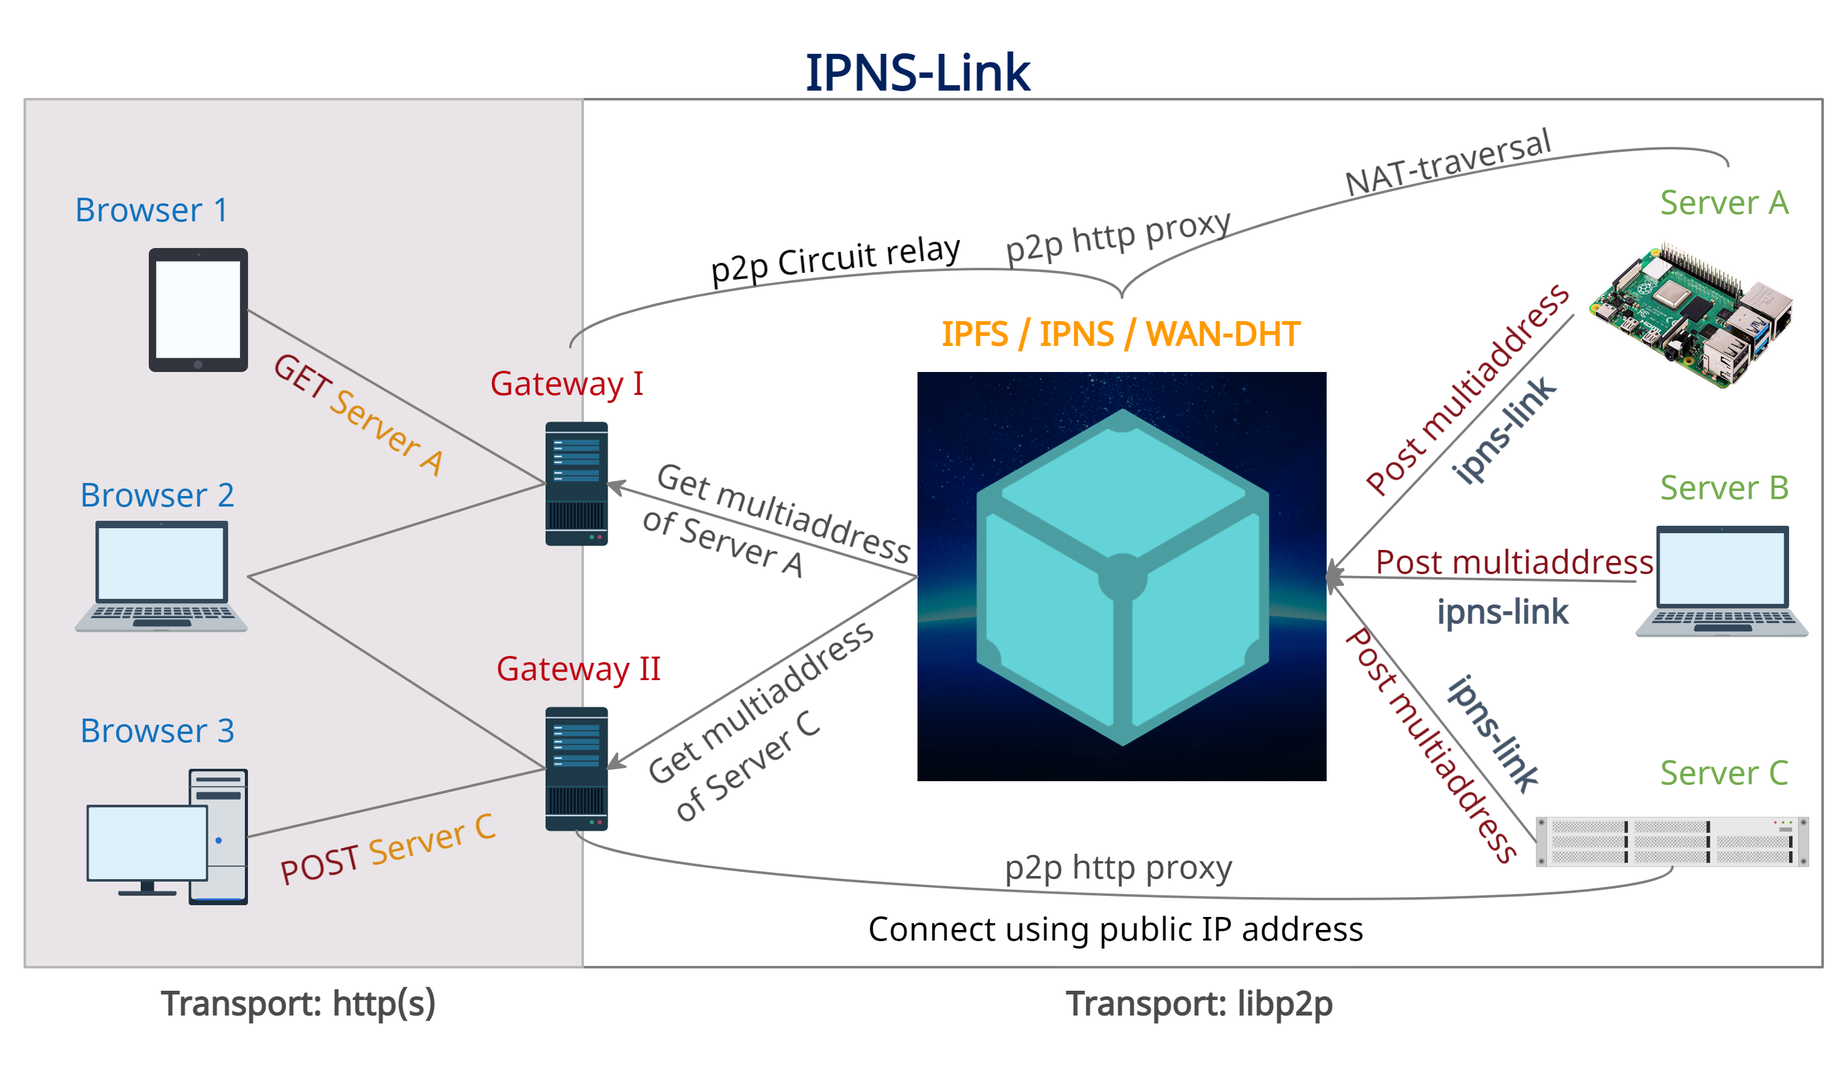
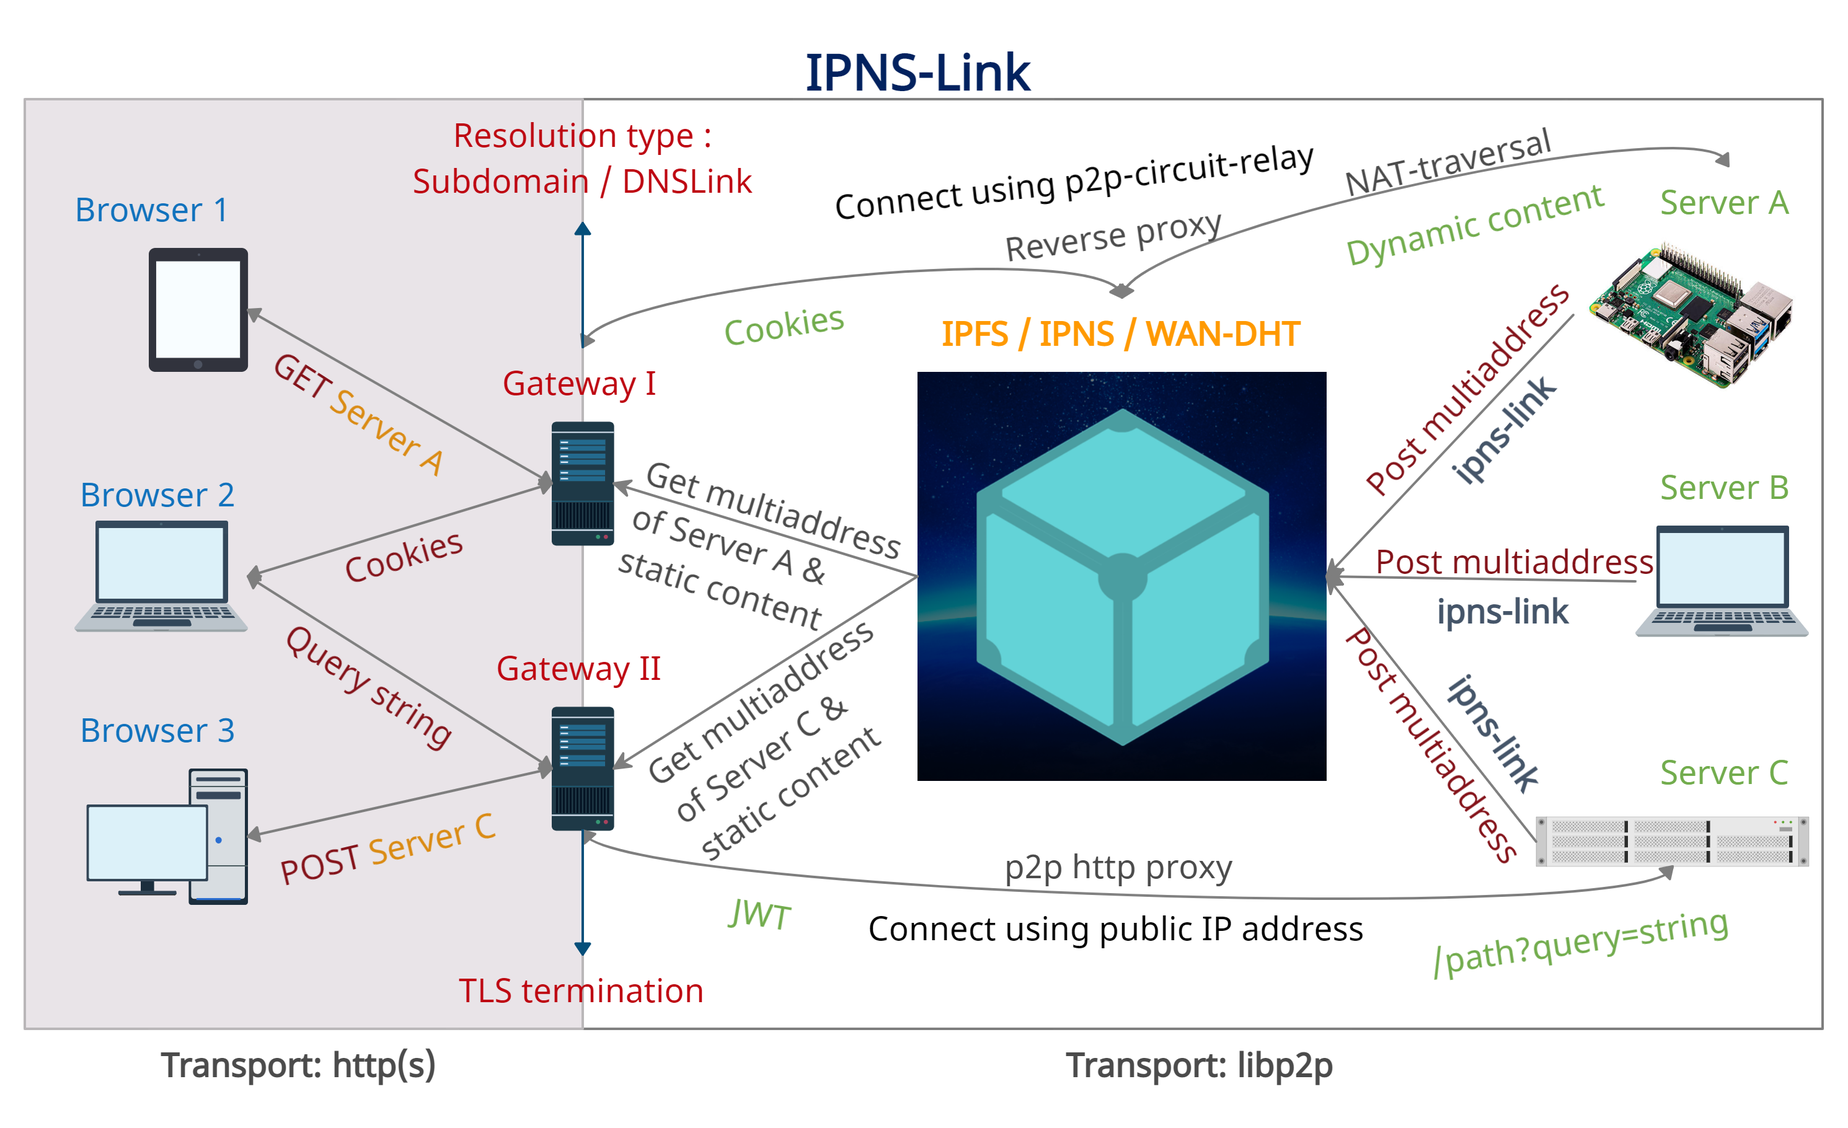
Overview

diff --git a/README.md b/README.md
@@ -1,178 +1,129 @@
-# IPNS-Link Specifications
+# IPNS-Link
 
-![Projects](https://img.shields.io/badge/Projects-ipns--link%2C%20ipns--link--gateway-blue) ![PR](https://img.shields.io/badge/PRs-Accepted-brightgreen)
+[One can add a static website to IPFS and address it using IPNS](https://medium.com/pinata/how-to-easily-host-a-website-on-ipfs-9d842b5d6a01). The website can then be accessed through any IPFS gateway. But what about a dynamic website or web app that needs to run server-side code! **IPNS-Link** makes it possible to address any http-server using IPNS.
 
-## Table of Contents  
-[![tocgen](https://img.shields.io/badge/Generated%20using-tocgen-blue)](https://github.com/SomajitDey/tocgen)  
-  - [IPNS-Link Specifications](#ipns-link-specifications)  
-      - [Why IPNS-Link](#why-ipns-link)  
-      - [Basic principles](#basic-principles)  
-          - [Schema](#schema)  
-          - [Participating nodes](#participating-nodes)  
-          - [What source node does](#what-source-node-does)  
-          - [What gateway does](#what-gateway-does)  
-      - [Where IPNS comes in](#where-ipns-comes-in)  
-          - [Publishing multiaddress with minimal bandwidth consumption](#publishing-multiaddress-with-minimal-bandwidth-consumption)  
-          - [Redirect to IPNS-Link-gateway](#redirect-to-ipns-link-gateway)  
-      - [Template for the IPNS post](#template-for-the-ipns-post)  
-          - [Notes](#notes)  
-      - [IPNS-Link-gateway specs](#ipns-link-gateway-specs)  
-          - [Path gateway](#path-gateway)  
-      - [Benefits](#benefits)  
-          - [Security and Trustlessness](#security-and-trustlessness)  
-          - [Uncensored hosting](#uncensored-hosting)  
-          - [Anonymity](#anonymity)  
-          - [No need to pay for DDNS](#no-need-to-pay-for-ddns)  
-          - [Low-cost hobby hosting](#low-cost-hobby-hosting)  
-      - [Implementations](#implementations)  
-      - [Contribute](#contribute)  
-#####   
+[This page presents a high-level overview. The detailed specs and implementation-intricacies would be documented elsewhere in this repository].
 
-### Why IPNS-Link
-
-[One can host a static website using IPFS+IPNS](https://medium.com/pinata/how-to-easily-host-a-website-on-ipfs-9d842b5d6a01). But what about a dynamic website or web app that needs to run server-side code! IPNS-Link aims to make it possible to expose http-servers using IPFS+IPNS.
-
-### Basic principles
-
-##### Schema
+### A picture is worth a thousand words. So let's start with one:
 
 ![IPNS-Link_schema](./IPNS-Link_schema.jpg)
 
-##### Participating nodes
+### In brief, this is how it works:
 
-1. Source node (origin server) where the http-server (web app) runs.
-2. (Public) gateway to access the http-server (from browser).
+- Alice runs her website on her device. She [exposes her local server with `ipns-link`](https://github.com/ipns-link/ipns-link/blob/main/tutorials/QuickStart.md) and gets an [IPNS-name or key](https://docs.ipfs.io/concepts/ipns/) that she can then distribute to her users/website-visitors.
+- Bob puts Alice's IPNS key in any [IPFS](https://ipfs.github.io/public-gateway-checker/) or [IPNS-Link](https://github.com/ipns-link/ipns-link-gateway) gateway in his browser. The gateway finds the [multiaddress](https://docs.libp2p.io/concepts/addressing/) of Alice's node from her IPNS record. It then establishes a persistent connection with her node and [proxies](https://github.com/ipfs/go-ipfs/blob/master/docs/experimental-features.md#p2p-http-proxy) for her server, delivering her website to Bob. Note that Bob can use any gateway, even a [self-hosted](https://github.com/ipns-link/ipns-link-gateway#self-hosting), local one. Alice's website, therefore, practically gets atleast as many URLs as there are public gateways: `http(s)://any.gateway.tld/ipns/AliceKey`.
 
-##### What source node does
+### IPFS is used basically as a CDN:
 
-1. Makes sure it is accessible from the public internet. Sets up [NAT-traversal](https://docs.libp2p.io/concepts/nat/), if needed.
-2. Publishes its public [multiaddress](https://docs.libp2p.io/concepts/addressing/).
-3. [Forwards incoming libp2p-streams with the `http` protocol to the local http-server.](https://github.com/ipfs/go-ipfs/blob/master/docs/experimental-features.md#ipfs-p2p)
+- Alice may pin the static contents of her website, such as images, media, css and javascripts, with an [IPFS cluster](https://cluster.ipfs.io/) or pinning-services such as [Pinata](https://www.pinata.cloud/).
+- Requests for those static contents from Bob's browser are served from IPFS. Only the requests for dynamic contents need ever reach Alice's origin-server.
 
-##### What gateway does
+### IPFS also makes streaming efficient:
 
-1. Access the public multiaddress of the source node and connect.
-2. Connect to the local http-server at the source node, as a [p2p http proxy](https://github.com/ipfs/go-ipfs/blob/master/docs/experimental-features.md#p2p-http-proxy).
+- Alice creates media and streams live. Her [`ipns-link`](https://github.com/ipns-link/ipns-link) daemon watches her media directory and dynamically adds the directory to IPFS whenever new content is added. The resulting [CID hash](https://docs.ipfs.io/concepts/content-addressing/) is published immediately with [IPNS pubsub](https://github.com/ipfs/go-ipfs/blob/master/docs/experimental-features.md#ipns-pubsub).
+- Bob and Charlie join the stream using the same gateway. The gateway retrieves the corresponding files from Alice using [bitswap](https://docs.ipfs.io/concepts/bitswap/) and caches with its local IPFS node. Bob and Charlie are then served from the cache. Alice thus has to upload her files only once per gateway, saving her bandwidth.
 
-### Where IPNS comes in
+### Let's look at some more features:
 
-##### Publishing multiaddress with minimal bandwidth consumption
+##### No need for domain names or DDNS. The IPNS-Key is enough
 
-An IPFS node stores its multiaddresses as Peer records in the [DHT](https://docs.ipfs.io/concepts/dht/#distributed-hash-tables-dhts). Staying connected to the [WAN-DHT](https://docs.ipfs.io/concepts/dht/#dual-dht) for hours, however, results in huge bandwidth consumption, even with [`Routing.Type=dhtclient`](https://github.com/ipfs/go-ipfs/blob/master/docs/config.md#routingtype).
+- Alice can simply export her libp2p-key-pair into a file, copy the file to another machine and import the keypair there. She can then port her entire website to the new machine and expose its local server with `ipns-link`. Because she is using the same key-pair, her website can still be accessed using the same IPNS-key, although her website is now running on an entirely new machine with perhaps a new public IP address.
 
-The source node solves this in the following way. It goes online with [`Routing.Type=none`](https://github.com/ipfs/go-ipfs/blob/master/docs/config.md#routingtype). Note that this does not affect its ability to use [Autorelay](https://github.com/ipfs/go-ipfs/blob/master/docs/experimental-features.md#autorelay) for NAT-traversal, as long as enough bootstrap nodes are there. If NAT traversal is not required, however, one can do away with the bootstrap nodes.
+- Similarly, a dynamic public IP address doesn't cause any problem either.
 
-Because it is disconnected from the WAN-DHT, the source node employs a secondary, ephemeral node to publish its DHT records to the public network periodically. This secondary node is ephemeral, in that it stays connected to the WAN-DHT only for a short while. Remaining online only for a few seconds for a few times every hour does not cost much bandwidth. 
+##### NAT-traversal
 
-An IPFS node, however, can put to DHT only the IPNS records of another node, not its [Provider or Peer records](https://docs.ipfs.io/concepts/dht/). The source node, therefore, puts its multiaddresses inside its [IPNS record](#template-for-the-ipns-post), `/ipns/PeerID`, and passes the record to the secondary node.
+IPFS's built-in [NAT-traversal](https://github.com/ipfs/go-ipfs/blob/master/docs/experimental-features.md#autorelay) helps in cases where there is no public IP at all.
 
-##### Redirect to IPNS-Link-gateway
+##### Intermittent connectivity
 
-The [gateway](#ipns-link-gateway-specs) that connects to the http-server at the source node is different from an [IPFS gateway](https://github.com/ipfs/go-ipfs/blob/master/docs/gateway.md) in the following ways. 
+If Alice has intermittent connections, Alice may configure [`ipns-link`](https://github.com/ipns-link/ipns-link/blob/main/MANUAL.md#onfail) such that Bob gets redirected to any URL of her choice, whenever Alice goes offline. The default redirect is to a "coming-soon" page, reassuring Bob that Alice would be back, soon.
 
-1. It needs to access the multiaddresses of the source node from IPNS instead of DHT.
-2. It needs to allow `/p2p` paths.
+##### No need for SSL
 
-To distinguish this gateway from an IPFS gateway, let's call it an [***IPNS-Link-gateway***](#ipns-link-gateway-specs).
+The p2p connection between the gateway and Alice's origin-server is [encrypted](https://docs.ipfs.io/concepts/privacy-and-encryption/#encryption). If Bob is using a local gateway on his machine to access Alice's website, then he is completely safe. Otherwise, he can simply use an https-enabled public gateway, such as https://www.ipns.live. Alice doesn't need to purchase and manage SSL certificates on her own anymore to serve securely.
 
-Now consider this. What if someone tries the path `/ipns/PeerIDofSourceNode` using one of the public [IPFS gateways](https://ipfs.github.io/public-gateway-checker/), in a browser? Won't it be great if the visitor is redirected to an IPNS-Link-gateway that can actually connect to the live web app running at the source node? To achieve this, the source node also puts an html redirect inside its [IPNS record](#template-for-the-ipns-post).
+##### Same origin policy
 
-### Template for the IPNS post
+The gateways assign each website its own subdomain.
 
-The post is actually a tiny static website with an `index.html` of the form:
 
-```html
-<meta http-equiv="refresh" content="0; url=https://example.com/ipns/PeerIDofSourceNode">
-<title>Redirecting...</title>
-If you are not redirected automatically, follow this <a href='https://example.com/ipns/PeerIDofSourceNode'>link</a>
 
-<!--ipns-link--
-/ip4/127.0.0.1/tcp/4001/p2p/PeerIDofRelay/p2p-circuit/p2p/PeerIDofSourceNode
---ipns-link-->
+# FAQs
 
-<!--
-Other texts, if any
--->
-```
 
-Replace `example.com` with an IPNS-Link-gateway of your choice. Replace the multiaddress `/ip4/...` with the fully qualified public multiaddress(es) of the source node.
 
-##### Notes
+### But an IPFS gateway such as ipfs.io doesn't support all these features:
 
-Add the post to IPFS using
+True. [IPFS-gateway](https://docs.ipfs.io/concepts/ipfs-gateway/#overview)s are designed to serve static sites only, they can't serve as proxies. Hence, IPNS-Link needs its own gateway. [ipns.live](https://ipns.live) is an example running the [prototype implementation](https://github.com/ipns-link/ipns-link-gateway). **Anyone can host an IPNS-Link-gateway as the code is free and open-source**.
 
-```bash
-ipfs add --inline --inline-limit=1000 --wrap-with-directory index.html
-```
+IPNS-Link-gateways and IPFS gateways, however, complement each other. Whenever Bob puts Alice's IPNS key into an IPFS gateway, it redirects Bob's browser to an IPNS-Link gateway that then connects Bob to Alice's site. On the other hand, an IPNS-Link-gateway redirects almost all requests for static content to IPFS gateways for offloading itself.
 
-Thanks to the inlining, the IPNS record pointing to this tiny website actually contains the whole website. Because the IPNS record is cached by DHT nodes, IPFS gateways and [IPNS Pubsub peers](https://github.com/ipfs/go-ipfs/blob/master/docs/experimental-features.md#ipns-pubsub), the website doesn't need to be provided by the source node itself, nor do we need to use a remote pinning service like [Pinata](https://www.pinata.cloud/).
+### Cool. But why care?
 
-### IPNS-Link-gateway specs
+Let's look at the following use cases, then.
 
-1. Determine the source node's identifier ([PeerID](https://docs.libp2p.io/concepts/peer-id/#what-is-a-peerid) or any other [IPNS name](https://docs.ipfs.io/concepts/ipns/)) from the user request (see "Resolution style" below). Redirect, if necessary.
-2. Access the [IPNS post](#template-for-the-ipns-post)  by the source node, and retrieve the multiaddresses by parsing it.
-3. Connect to the source node using the retrieved multiaddresses.
-4. Support all HTTP methods while forwarding incoming http-requests to the web app at the source node.
-5. No [`X-Forwarded-For`](https://developer.mozilla.org/en-US/docs/Web/HTTP/Headers/X-Forwarded-For) header that can expose the originating IP address of the incoming requests.
-6. Might contain [`X-Forwarded-Host`](https://developer.mozilla.org/en-US/docs/Web/HTTP/Headers/X-Forwarded-Host), [`X-Forwarded-Port`](https://developer.mozilla.org/en-US/docs/Web/HTTP/Headers/X-Forwarded-Port) and [`X-Forwarded-Proto`](https://developer.mozilla.org/en-US/docs/Web/HTTP/Headers/X-Forwarded-Proto) headers.
-7. Resolution style: Path, Subdomain and DNSLink. See [this](https://docs.ipfs.io/concepts/ipfs-gateway/#gateway-types) to familiarize yourself with these types.
+##### Censorship resistance
 
-##### Path gateway
-
-Request types: 
-
-1. `http(s)://gateway.tld/ipns/IPNSname/*` or  
-2. `http(s)://gateway.tld/p2p/PeerID/http/*`
-
-Multiple `IPNSname`s can point to the same `PeerID`. Therefore, all paths of type 1 are redirected to the path of type 2.
-
-Path gateways are easier to deploy and maintain but provide no origin isolation. This causes problems on mainly two fronts, cookies and root-relative-URLs. We propose to solve these, albeit partially, with some header magic as follows.
-
-1. **Root-relative-URL:** When you are at path `https://gateway.tld/p2p/PeerID/http/document` and you click a link for `/image`, the request path becomes `https://gateway.tld/image`. The gateway, therefore, needs some means to extract the `PeerID` which is now missing from the path. Note that it can use the [`Referer`](https://developer.mozilla.org/en-US/docs/Web/HTTP/Headers/Referer) header for this purpose. [To make this work always, the gateway may inject a `strict-origin-when-cross-origin` [`Referrer-Policy`](https://developer.mozilla.org/en-US/docs/Web/HTTP/Headers/Referrer-Policy) in the response message from the source node]. After extracting the `PeerID` from the `Referer` header, the gateway makes a final redirection to `/p2p/PeerID/http/image`.
-
-2. **Cookies:** If source nodes are allowed to [set cookies](https://developer.mozilla.org/en-US/docs/Web/HTTP/Headers/Set-Cookie) with [path attributes](https://datatracker.ietf.org/doc/html/rfc6265#section-5.1.4), cookies set by one source node might be sent to another. To mitigate this, the gateway may modify the cookie-paths by prefixing them with `/p2p/PeerID/http`. So, the header 
-
-   ```html
-   Set-Cookie: Name=Value; Path=/path
-   ```
-
-   from the source node with peer ID = `PeerID` becomes
-
-   ```html
-   Set-Cookie: Name=Value; Path=/p2p/PeerID/http/path
-   ```
-
-   This works only because the gateway always redirects to paths of type: `/p2p/PeerID/http/*` (see above). For added safety, the gateway might remove any `Domain` attribute in the [`Set-Cookie`](https://developer.mozilla.org/en-US/docs/Web/HTTP/Headers/Set-Cookie) header.
-
-### Benefits
-
-##### Security and Trustlessness
-
-[IPFS uses transport-encryption, viz. data is secure when being sent from one IPFS node to another](https://docs.ipfs.io/concepts/privacy-and-encryption/#encryption). So gateway <--> source node connection is secure. If you are using a public IPNS-Link gateway with `https`, you ought to be secure, but only as long as you trust the public gateway provider. If you don't want to trust the public gateways you can always [host](https://github.com/ipns-link/ipns-link-gateway) your own, for free, locally or on cloud.
-
-##### Uncensored hosting
-
-To illustrate, imagine the Sci-Hub server exposed using IPNS-Link. In countries where Sci-Hub is blocked, one can simply access it through *any* public IPNS-Link-gateway.
+A website (say, `example.com`) that is blocked in a country or region may be accessed easily using IPNS-Link. Because the site already has a domain name, its IPNS key can be conveniently distributed as a [DNSLink](https://docs.ipfs.io/concepts/dnslink/#dnslink). Gateways can automatically resolve DNSLinks. So, alternate URLs for that site would simply look like, `http(s)://gateway.tld/ipns/example.com`.
 
 ##### Anonymity
 
-Accessing websites through public IPNS-Link-gateways hides your IP address from the websites visited. Compare Tor and VPN. As an aside, you may note that [IPFS is also experimenting with onion routing](https://dweb-primer.ipfs.io/avenues-for-access/tor-transport).
+Accessing websites through public gateways masks the user's IP address from the websites visited. [Compare [Tor](https://www.torproject.org/) and [VPN](https://en.wikipedia.org/wiki/Virtual_private_network)]. On the other hand, the origin-server's IP may be hidden from the visitors using an upcoming feature of [`ipns-link`](https://github.com/ipns-link/ipns-link).
 
-##### No need to pay for DDNS
+##### Microhosting
 
-Traditionally, if your server only had a dynamic public IP address, you would be forced to buy a DDNS service. With IPNS-Link, you can simply point your domain to `{your IPNS identifier}.{a public IPNS-Link-gateway URL}`.
+Anyone can host a dynamic website on a Raspberry Pi or an old PC and expose it with IPNS-Link. Costs and hassles are minimal. One no more needs a domain name, (wildcard) SSL certificates, a public (static) IP, or DDNS. The prototype implementation of [`ipns-link`](https://github.com/ipns-link/ipns-link) also makes sure bandwidth consumption is as low as possible.
 
-##### Low-cost hobby hosting
+Mobile devices remain on almost all the time and are good as lightweight servers. With [Termux](https://termux.com/), one can adapt `ipns-link` to android devices.  If most of the website contents is static, then only a few requests would ever reach the origin-server. Also `ipns-link` consumes very little CPU and bandwidth. This saves on battery. Even in face of intermittent connections, visitors may be kept engaged or informed with an appropriate redirect destination for when the server goes offline.
 
-Host small-scale server on a Raspberry Pi or an old PC and expose with IPNS-Link, readily, free of cost. No need to pay for a domain name. With built-in NAT-traversal, no need to buy public IP address either. With built-in [encryption](#security-and-trustlessness), no need to buy/manage SSL certificates.
+All these might help developers, students, hobbyists and tinkerers host their sites for free - be it for testing, learning, trying or for sheer joy.
 
-### Implementations
+##### Livestreams
 
-[ipns-link](https://github.com/ipns-link/ipns-link)
+With multiple gateways at their disposal, each visitor can choose the gateway nearest to them. Since each gateway serves the stream content from its local IPFS cache, this would ensure a faster streaming experience. Also the origin-server is significantly offloaded.
 
-[ipns-link-gateway](https://github.com/ipns-link/ipns-link-gateway)
+##### Private network
 
-### Contribute
+A giant company can build its own [private IPFS network](https://github.com/ipfs/go-ipfs/blob/master/docs/experimental-features.md#private-networks) consisting of its many origin-servers and a few public facing IPNS-Link-gateways to securely reverse proxy for all of those backends.
 
-Lots of things to be done, lots of help needed. You may contribute to this project in [multiple](https://github.com/ipns-link/contribute) ways.
-
+### Any implementations yet?
+
+Yes, only the prototypes (MVP).
+
+The command-line app that you expose your local server with: https://github.com/ipns-link/ipns-link
+
+An easy to host IPNS-Link-Gateway: https://github.com/ipns-link/ipns-link-gateway
+
+### How can the community contribute?
+
+Lots of things are yet to be done actually and any help would be highly appreciated. Some high-priority areas where serious help is urgently needed are: 
+
+1. Volunteers need to host public [IPNS-Link-gateway](https://github.com/ipns-link/ipns-link-gateway)s, such as https://ipns.live.
+2. The current implementations, being prototypes, have been rather hurriedly hacked with Bash. That they still work, simply tells how better things would be once the codebase is ported to Go, JS etc. So, volunteer developers are needed.
+3. The [project](https://github.com/ipns-link) lacks a decent homepage. PRs are highly welcome.
+4. Perhaps most of IPNS-Link users would require NAT-traversal. So, volunteers need to contribute [public relays](https://github.com/ipfs/go-ipfs/blob/master/docs/experimental-features.md#how-to-enable-8).
+
+IPNS-Link is and always will remain Free and Open-Source project by and for the community. The public gateways may be crowd-funded. Sponsors and well-wishers may donate using the corresponding link provided at the landing pages of every gateway.
+
+IPNS-Link is a baby now. If you think it has promise, let others know. Only active participation by the community can make it mature.
+
+### Where can the community discuss, critique or seek help about IPNS-Link freely?
+
+- The Issues or Discussions section of any repository in the [IPNS-Link organization](https://github.com/ipns-link) at GitHub.
+- Reddit: [r/ipns_link](r/ipns_link)
+- [discuss.ipfs.io](https://discuss.ipfs.io)
+
+### What influenced IPNS-Link?
+
+[ngrok](https://ngrok.com/), [localhost.run](https://localhost.run/), [uplink](https://getuplink.de/).
+
+### What's ahead?
+
+1. Free .ipns domain names for all websites addressed using IPNS.
+2. A search engine for such websites.
+
+### Can I join the IPNS-Link organization?
+
+Contributors may be sent membership invitations for [IPNS-Link's GitHub organization](https://github.com/ipns-link).
+
